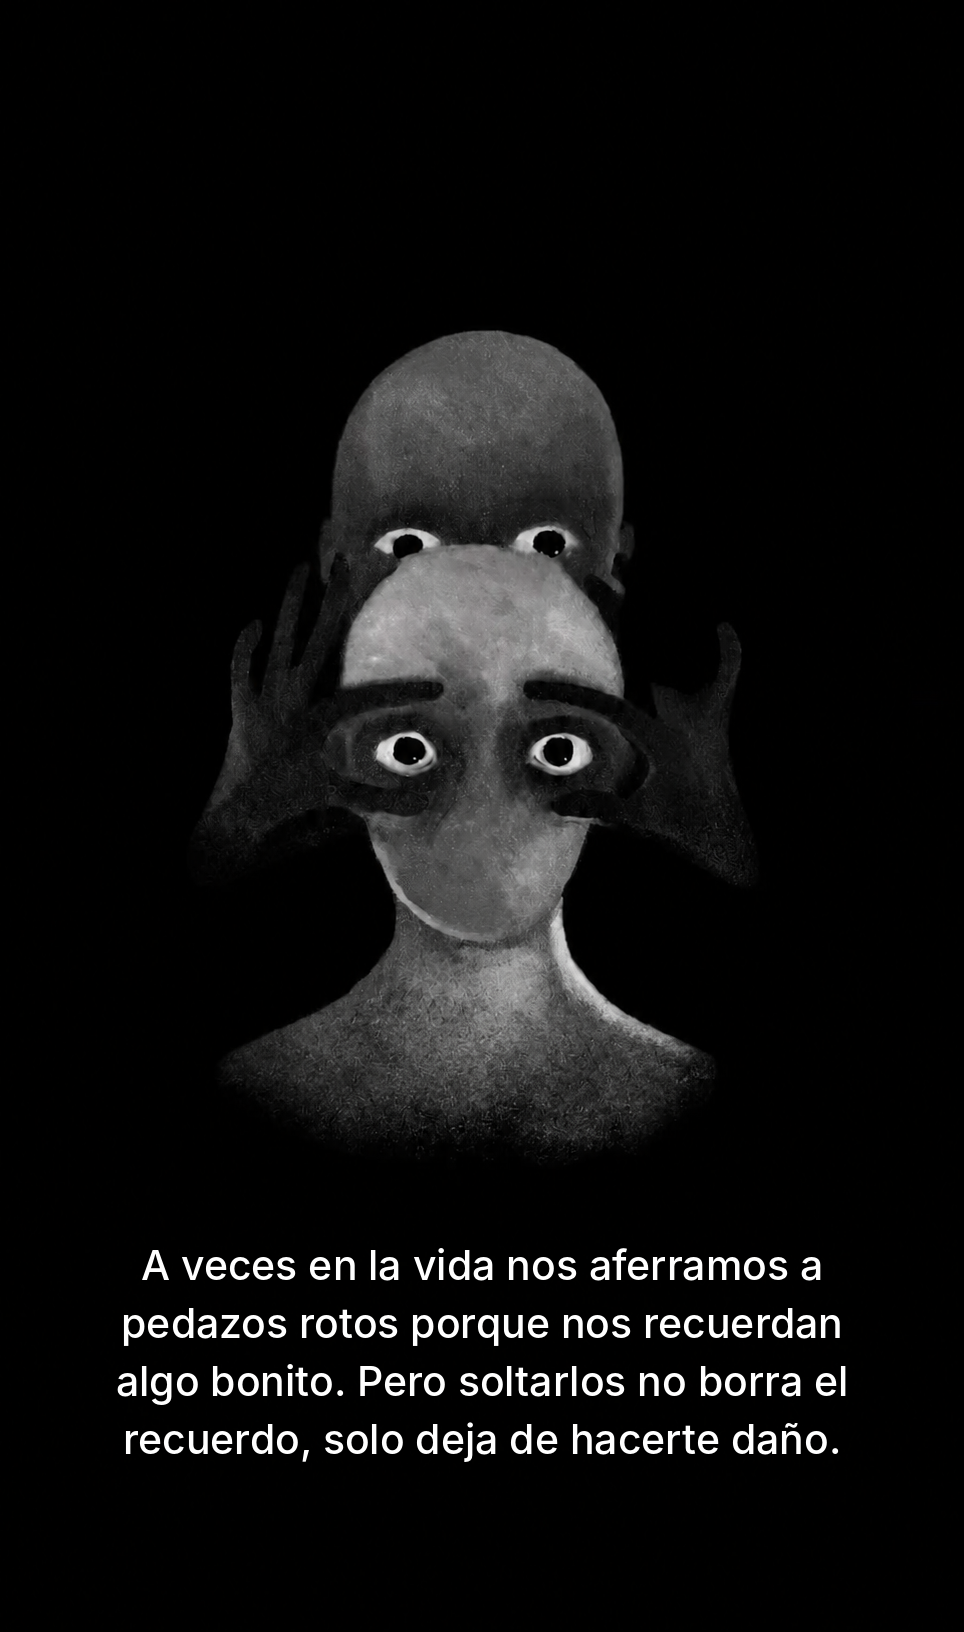
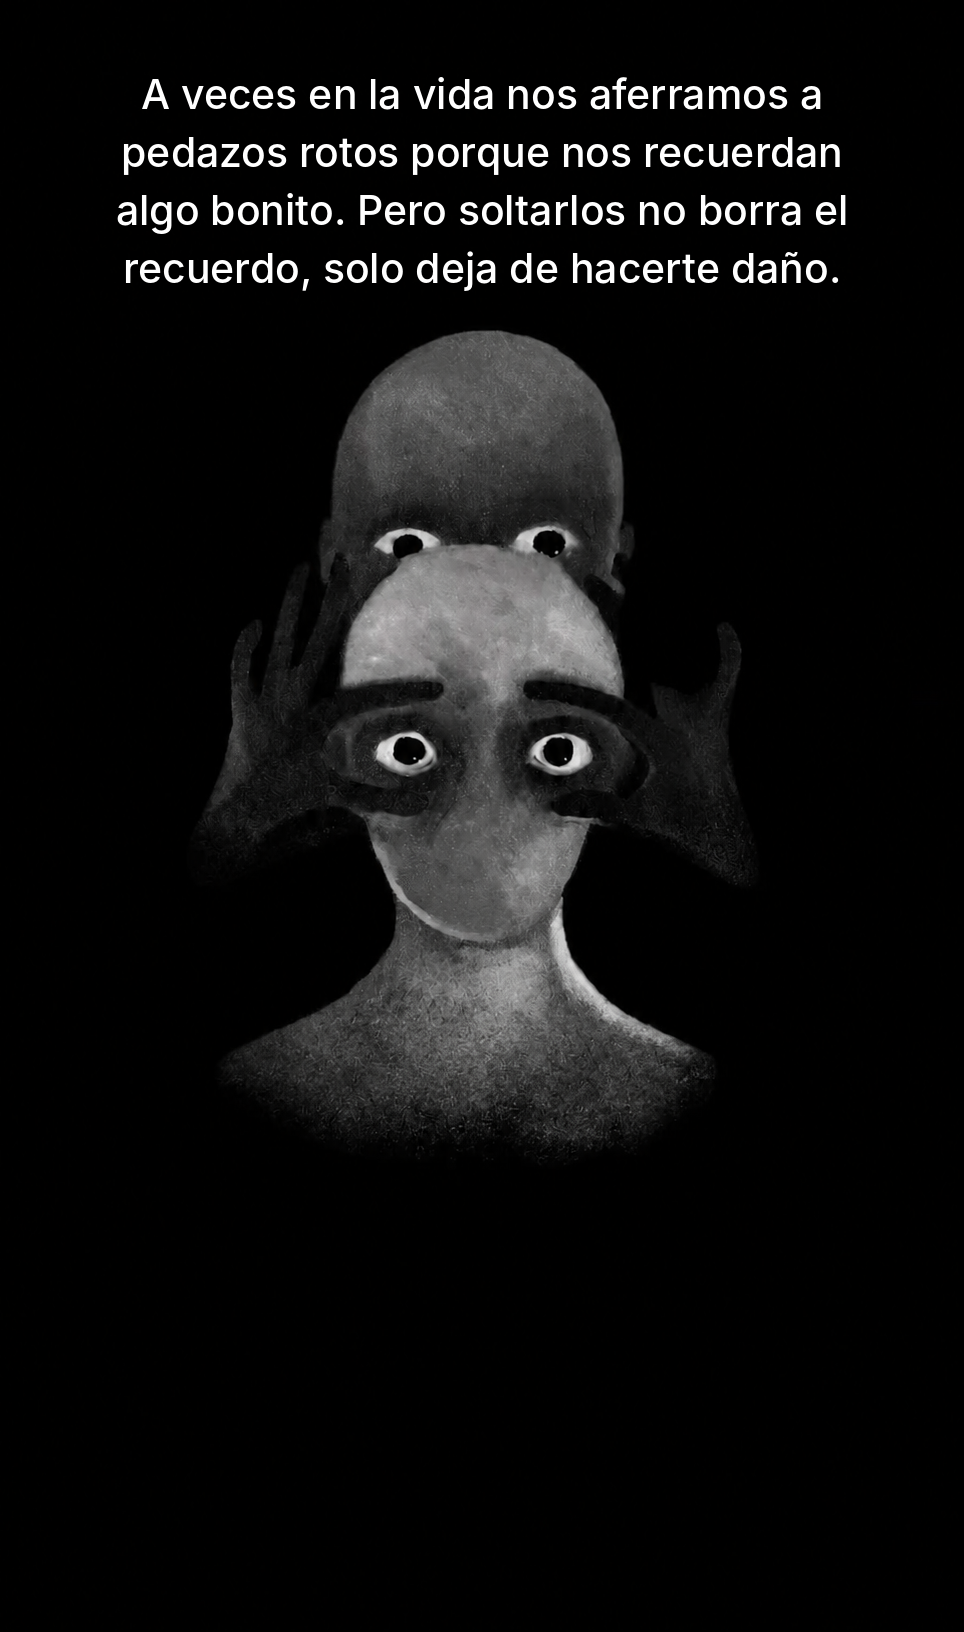
Mover el cierre justo encima de la cabeza en el frame final
Claude-Session: https://claude.ai/code/session_01APr9B7FbDAvfE976rXgtYH

Changed region(s): [[0.1245, 0.75, 0.8714, 0.9062], [0.1245, 0.0312, 0.8714, 0.1875]]

diff --git a/tools/generar_frames.py b/tools/generar_frames.py
@@ -44,10 +44,11 @@ def frame(who, text, text2, base):
     elif who == "palido":
         block(d, text, int(W * 0.048), W - m, int(H * 0.08), int(W * 0.68), "right")
     elif not text2:
-        # cierre: explicación centrada debajo de los dos personajes
+        # cierre: explicación centrada, justo encima de la cabeza de los personajes
         font = ImageFont.truetype(FONT, int(W * 0.043))
-        y = int(H * 0.76)
-        for line in wrap(d, text, font, int(W * 0.84)):
+        lines = wrap(d, text, font, int(W * 0.84))
+        y = int(H * 0.185) - int(W * 0.043 * 1.4) * len(lines)
+        for line in lines:
             d.text(((W - d.textlength(line, font=font)) / 2, y), line, font=font, fill="white")
             y += int(W * 0.043 * 1.4)
     else:
